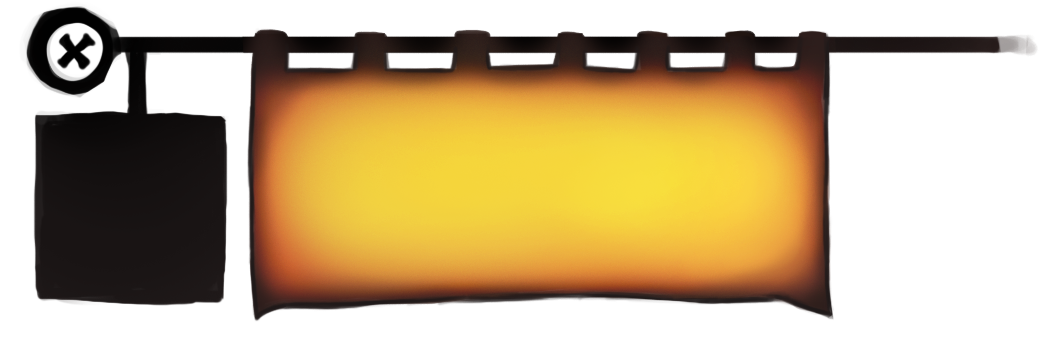
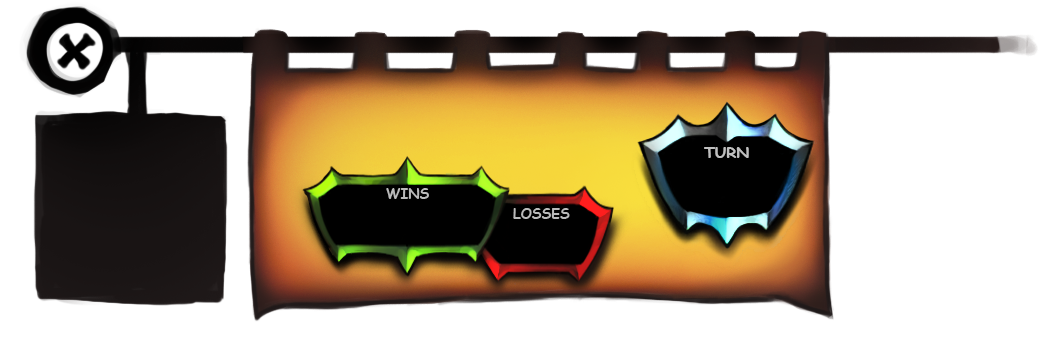
Agrega stats a game list

Changed region(s): [[0.2751, 0.2941, 0.7947, 0.8529]]

diff --git a/CrystalClash/CrystalClash/src/com/crystalclash/views/MenuGamesView.java b/CrystalClash/CrystalClash/src/com/crystalclash/views/MenuGamesView.java
@@ -1,22 +1,27 @@
 package com.crystalclash.views;
 
 import aurelienribon.tweenengine.Timeline;
-import aurelienribon.tweenengine.Tween;
 
 import com.badlogic.gdx.Input.Keys;
+import com.badlogic.gdx.graphics.Color;
+import com.badlogic.gdx.scenes.scene2d.Group;
 import com.badlogic.gdx.scenes.scene2d.InputEvent;
 import com.badlogic.gdx.scenes.scene2d.InputListener;
+import com.badlogic.gdx.scenes.scene2d.ui.Button;
+import com.badlogic.gdx.scenes.scene2d.ui.Button.ButtonStyle;
+import com.badlogic.gdx.scenes.scene2d.ui.Image;
+import com.badlogic.gdx.scenes.scene2d.ui.Label;
 import com.badlogic.gdx.scenes.scene2d.ui.Skin;
 import com.badlogic.gdx.scenes.scene2d.ui.TextButton;
 import com.badlogic.gdx.scenes.scene2d.ui.TextButton.TextButtonStyle;
 import com.badlogic.gdx.scenes.scene2d.ui.VerticalGroup;
 import com.badlogic.gdx.scenes.scene2d.utils.ClickListener;
 import com.crystalclash.CrystalClash;
-import com.crystalclash.accessors.ActorAccessor;
 import com.crystalclash.audio.AudioManager;
 import com.crystalclash.audio.AudioManager.MUSIC;
 import com.crystalclash.controllers.GameController;
 import com.crystalclash.controllers.MenuGames;
+import com.crystalclash.entities.User;
 import com.crystalclash.renders.GameEngine;
 import com.crystalclash.renders.ParallaxRender;
 import com.crystalclash.renders.TutorialInvitation;
@@ -37,16 +42,13 @@ public class MenuGamesView extends InputView {
 	private VerticalGroup list;
 	private GameListItem[] gamesList;
 
-	private TextButton btnProfile;
-	private TextButton btnLogOut;
+	private Group grpProfile;
 
 	private InputListener surrenderListener;
 	private InputListener playListener;
 	private Skin skin;
 
 	private TextButton btnNewRandom;
-	// private TextButton btnNewInvite;
-	private TextButton btnMusic;
 
 	private TutorialInvitation tutoInv;
 
@@ -72,52 +74,16 @@ public class MenuGamesView extends InputView {
 	@Override
 	public Timeline pushEnterAnimation(Timeline t) {
 		AudioManager.playMusic(MUSIC.menu);
-		Timeline aux = Timeline.createParallel();
-
-		btnProfile.setText("Welcome " + GameController.getUser().getName());
-		aux.push(Tween.to(btnLogOut, ActorAccessor.Y, CrystalClash.SLOW_ANIMATION_SPEED)
-				.target(CrystalClash.HEIGHT - btnLogOut.getHeight() - 10))
-				.push(Tween.to(btnMusic, ActorAccessor.Y, CrystalClash.SLOW_ANIMATION_SPEED)
-						.target(CrystalClash.HEIGHT - btnMusic.getHeight() - 10));
-		return t.push(aux);
+		return t;
 	}
 
 	@Override
 	public Timeline pushExitAnimation(Timeline t) {
 		superScroll.scrollPane.setScrollY(0);
-		t.beginParallel()
-				.push(Tween.to(btnLogOut, ActorAccessor.Y, CrystalClash.SLOW_ANIMATION_SPEED)
-						.target(CrystalClash.HEIGHT))
-				.push(Tween.to(btnMusic, ActorAccessor.Y, CrystalClash.SLOW_ANIMATION_SPEED)
-						.target(CrystalClash.HEIGHT));
-		return t.end();
+		return t;
 	}
 
 	private void load() {
-		btnLogOut = new TextButton("Log Out", ResourceHelper.getButtonStyle());
-		btnLogOut.setPosition(CrystalClash.WIDTH - btnLogOut.getWidth() - 50,
-				CrystalClash.HEIGHT);
-		btnLogOut.addListener(new ClickListener() {
-			@Override
-			public void clicked(InputEvent event, float x, float y) {
-				System.out.println("LogOut");
-				controller.logOut();
-			}
-		});
-		addActor(btnLogOut);
-
-		btnMusic = new TextButton(String.format("Music %s", AudioManager.getVolume() == 0 ? "OFF" : "ON"),
-				ResourceHelper.getButtonStyle());
-		btnMusic.setPosition(CrystalClash.WIDTH - btnLogOut.getWidth() - 100 - btnMusic.getWidth(),
-				CrystalClash.HEIGHT);
-		btnMusic.addListener(new ClickListener() {
-			@Override
-			public void clicked(InputEvent event, float x, float y) {
-				btnMusic.setText(String.format("Music %s", (AudioManager.toogleVolume() == 0 ? "OFF" : "ON")));
-			}
-		});
-		addActor(btnMusic);
-
 		list = new VerticalGroup();
 		list.setWidth(CrystalClash.WIDTH);
 
@@ -164,7 +130,7 @@ public class MenuGamesView extends InputView {
 				gamesList[i].remove();
 			}
 		}
-		list.addActor(btnProfile);
+		list.addActor(grpProfile);
 
 		gamesList = new GameListItem[games.length];
 
@@ -232,8 +198,11 @@ public class MenuGamesView extends InputView {
 		skin.add("surrender_down", ResourceHelper.getTexture("menu/games_list/surrender"));
 		skin.add("new_battle_up", ResourceHelper.getTexture("menu/games_list/new_battle"));
 		skin.add("new_battle_down", ResourceHelper.getTexture("menu/games_list/new_battle"));
-		skin.add("profile_up", ResourceHelper.getTexture("menu/games_list/player_info"));
-		skin.add("profile_down", ResourceHelper.getTexture("menu/games_list/player_info"));
+		skin.add("sound_off_up", ResourceHelper.getTexture("menu/games_list/sound_off"));
+		skin.add("sound_off_down", ResourceHelper.getTexture("menu/games_list/sound_off_pressed"));
+		skin.add("sound_on_up", ResourceHelper.getTexture("menu/games_list/sound_on"));
+		skin.add("logout_up", ResourceHelper.getTexture("menu/games_list/logout"));
+		skin.add("logout_down", ResourceHelper.getTexture("menu/games_list/logout_pressed"));
 		skin.add("background", ResourceHelper.getTexture("menu/games_list/item"));
 
 		TextButtonStyle playStyle = new TextButtonStyle();
@@ -268,12 +237,59 @@ public class MenuGamesView extends InputView {
 			}
 		});
 
-		TextButtonStyle profileStyle = new TextButtonStyle();
-		profileStyle.font = skin.getFont("font");
-		profileStyle.up = skin.getDrawable("profile_up");
-		profileStyle.down = skin.getDrawable("profile_down");
+		grpProfile = new Group();
+		Image imbProfile = new Image(ResourceHelper.getTexture("menu/games_list/player_info"));
+		grpProfile.addActor(imbProfile);
+		grpProfile.setSize(imbProfile.getWidth(), imbProfile.getHeight());
 
-		btnProfile = new TextButton("New random game", profileStyle);
+		ButtonStyle soundStyle = new ButtonStyle();
+		soundStyle.up = skin.getDrawable("sound_off_up");
+		soundStyle.down = skin.getDrawable("sound_off_down");
+		soundStyle.checked = skin.getDrawable("sound_on_up");
+		final Button btnSound = new Button(soundStyle);
+		btnSound.setPosition(840, 170);
+		btnSound.setChecked(AudioManager.getVolume() == 0);
+		btnSound.addListener(new ClickListener() {
+			@Override
+			public void clicked(InputEvent event, float x, float y) {
+				AudioManager.toogleVolume();
+				btnSound.setChecked(AudioManager.getVolume() == 0);
+			}
+		});
+		grpProfile.addActor(btnSound);
+
+		ButtonStyle logoutStyle = new ButtonStyle();
+		logoutStyle.up = skin.getDrawable("logout_up");
+		logoutStyle.down = skin.getDrawable("logout_down");
+		final Button btnLogout = new Button(logoutStyle);
+		btnLogout.setPosition(840, 70);
+		btnLogout.addListener(new ClickListener() {
+			@Override
+			public void clicked(InputEvent event, float x, float y) {
+				System.out.println("LogOut");
+				controller.logOut();
+			}
+		});
+		grpProfile.addActor(btnLogout);
+
+		User u = GameController.getUser();
+
+		Label lblUserName = new Label(u.getName(), skin, "font", Color.WHITE);
+		lblUserName.setPosition(250, 200);
+		grpProfile.addActor(lblUserName);
+
+		Label lblUserD = new Label("40", skin, "font", Color.WHITE);
+		lblUserD.setPosition(360, 90);
+		grpProfile.addActor(lblUserD);
+
+		Label lblUserV = new Label("150", skin, "font", Color.WHITE);
+		lblUserV.setPosition(520, 100);
+		grpProfile.addActor(lblUserV);
+
+		Label lblUserL = new Label("20", skin, "font", Color.WHITE);
+		lblUserL.setPosition(630, 90);
+		grpProfile.addActor(lblUserL);
+
 	}
 
 	public void listGamesError(String message) {

diff --git a/CrystalClash/CrystalClash/src/com/crystalclash/renders/helpers/ui/GameListItem.java b/CrystalClash/CrystalClash/src/com/crystalclash/renders/helpers/ui/GameListItem.java
@@ -40,21 +40,20 @@ public class GameListItem extends Group {
 		addActor(btnPlay);
 
 		Label lblName = new Label(playerName, skin, "font", Color.WHITE);
-		lblName.setSize(550, 70);
-		lblName.setPosition(270, 159);
+		lblName.setSize(550, 100);
+		lblName.setPosition(200, 200);
 		lblName.setAlignment(Align.center);
 		addActor(lblName);
 
-		Label labelvictories = new Label(victories + " victories", skin, "font", Color.GREEN);
+		Label labelV = new Label(victories, skin, "font", Color.WHITE);
+		labelV.setSize(420, 100);
+		labelV.setPosition(240, 90);
+		labelV.setAlignment(Align.center);
+		addActor(labelV);
 
-		labelvictories.setSize(550, 70);
-		labelvictories.setPosition(270, 120);
-		labelvictories.setAlignment(Align.center);
-		addActor(labelvictories);
-
-		Label labelTurn = new Label("Turn " + turn, skin, "font", Color.LIGHT_GRAY);
-		labelTurn.setSize(550, 70);
-		labelTurn.setPosition(270, 59);
+		Label labelTurn = new Label(turn, skin, "font", Color.LIGHT_GRAY);
+		labelTurn.setSize(560, 60);
+		labelTurn.setPosition(700, 130);
 		addActor(labelTurn);
 
 		// surrender icon
